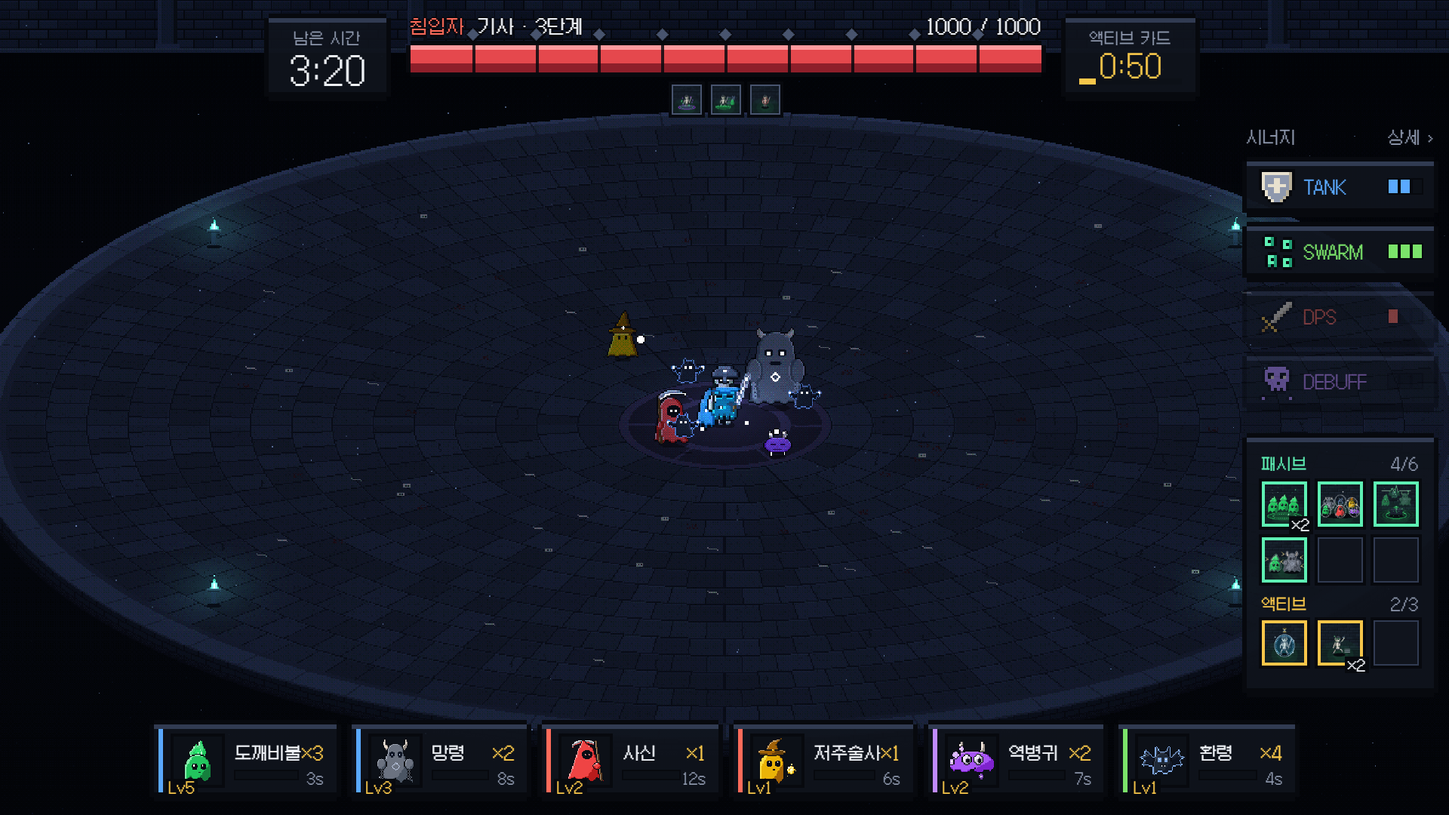
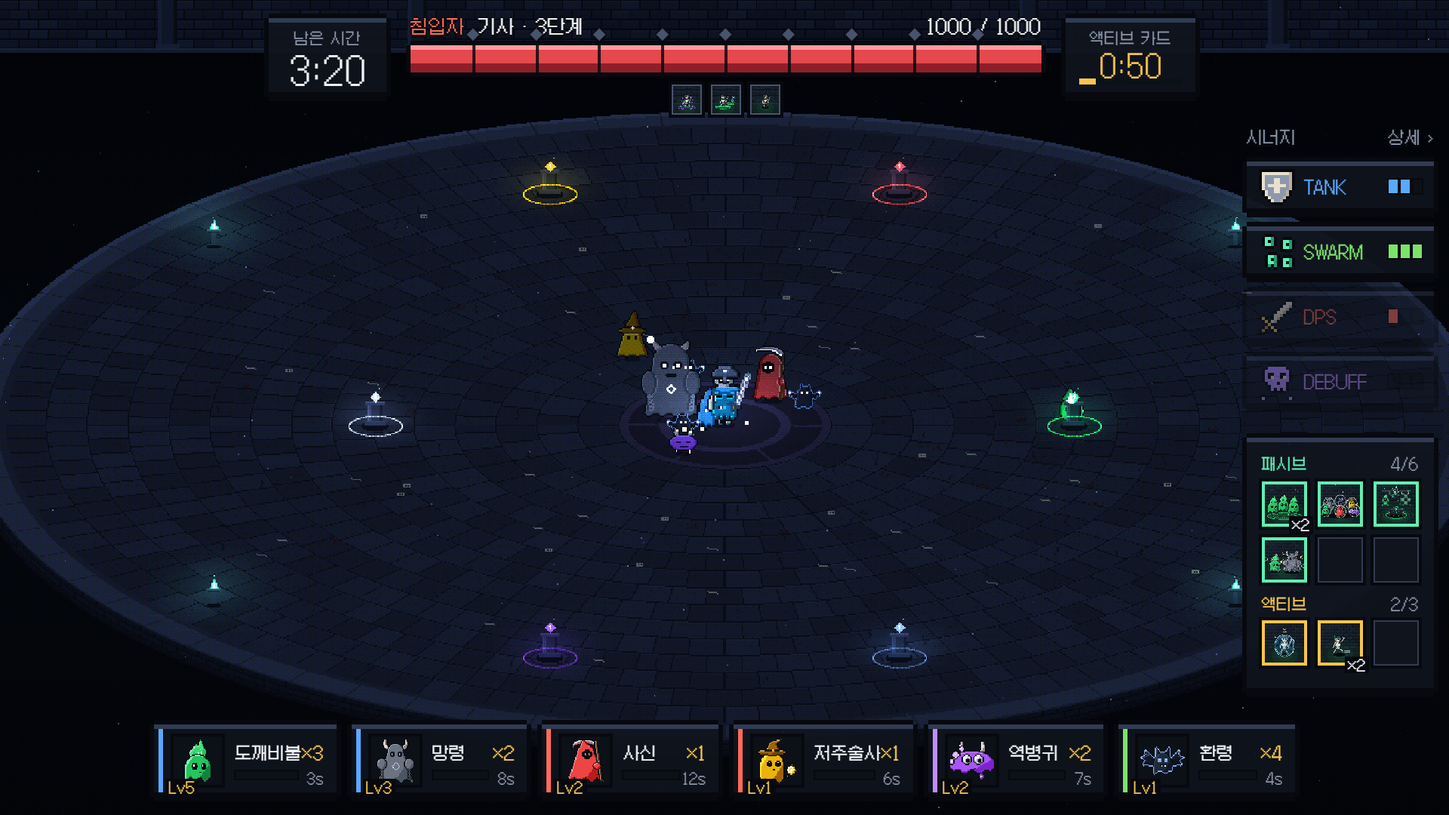
# [docs] - 배틀 광각판 시안에 투기장 안 스포너 제단 6개 복원
- 제단 6개(돌 제단 + 종족 발광색 결정·링·조명)를 투기장 안 새 스포너 위치에 배치, 캐릭터와 앞뒤로 정렬되는 별도 레이어
- 도깨비불이 오른쪽 제단에서 걸어 나와 영웅에게 붙고, 다른 공격자도 각자 제단 쪽에서 붙도록 연출 수정
- 추출 목록·저장 허용 목록에 제단 스프라이트 5장 추가(총 31장 + 시트 명세), 실제 화면 크기 시안 이미지 갱신

diff --git a/.mockups/scene-2d-atmosphere.html b/.mockups/scene-2d-atmosphere.html
@@ -203,7 +203,7 @@ body.only-battle .stage.showframe .scr{outline:0}
 </section>
 
 <section class="sc" id="s-battle-wide">
-  <div class="hd"><h2>3′. 배틀 광각판 — 현행 시야 그대로 (재확인 필요)</h2><code>buildBattleWide · Battle_Backdrop 1228×704 · 기획서 scene-2d-conversion §3.1.1</code></div>
+  <div class="hd"><h2>3′. 배틀 광각판 — 현행 시야 그대로 (재확인 필요)</h2><code>buildBattleWide · Battle_Backdrop 1228×704 + 제단 6 · 기획서 scene-2d-conversion §3.1.1 · §3.2 · §3.5</code></div>
   <div class="wide-scroll"><div class="stage wide showhud showframe" id="st-battle-wide"><canvas></canvas>
     <div class="scr"><div class="bhud-wrap"></div></div>
   </div></div>
@@ -213,7 +213,8 @@ body.only-battle .stage.showframe .scr{outline:0}
       <li>게임의 <b>지금 배틀 시야(카메라 size 7)를 그대로 둔 채</b> 그 화면을 채우도록 배경을 다시 그린 판입니다. 위 3번 시안(640×360)은 화면을 좁혀 본 구도였고, 실제 게임 화면은 <b>1194.67×672 도트</b>라 배경을 <b>1228×704</b>(흔들림 여백 포함)로 새로 그렸습니다. 캐릭터 도트 크기는 두 판이 같습니다.</li>
       <li>점선 사각형이 실제 화면 경계입니다. 바깥 띠(좌우 16.67·위아래 16 도트)는 카메라가 흔들릴 때만 드러나는 여백입니다.</li>
       <li>팔레트·그리기 함수·시드(41)는 3번과 같고, 크기·투기장 반경·석판 동심원 수(8 → 15)·벽 기둥 위치·균열/핏자국/뼈 개수만 넓이에 맞춰 늘렸습니다. 투기장은 화면 좌우 밖까지 이어집니다.</li>
-      <li><b>스포너 제단은 없습니다.</b> 스포너는 지금 게임처럼 화면 밖(반지름 20)에 있어서, 몬스터가 화면 가장자리에서 걸어 들어옵니다(여기서는 도깨비불이 오른쪽 0° 스포너에서 들어옴). 스포너 정보는 아래 HUD 스포너 줄이 맡습니다.</li>
+      <li><b>스포너 제단 6개를 투기장 안에 복원했습니다</b>(개정 2 — 스포너 반지름 20 → 6.0u, 각도는 지금 그대로). 위치는 도깨비불 (902,366) · 사신 (758,175) · 저주술사 (470,175) · 망령 (326,366) · 역병귀 (470,557) · 환령 (758,557) 이고, 6개 모두 HUD 밖에 있습니다. 제단은 배경에 굽지 않은 별도 스프라이트라 캐릭터와 앞뒤로 정렬되고, 결정·링 색은 종족 발광색(= HUD 스포너 칸 게이지 색)입니다.</li>
+      <li>몬스터는 자기 제단에서 걸어 나옵니다. 여기서는 도깨비불이 오른쪽(0°) 제단에서 나와 영웅에게 붙고, 다른 공격자도 각자 제단이 있는 쪽에서 붙어 싸웁니다.</li>
       <li>화로 4개는 HUD 에 가리지 않는 투기장 네 귀퉁이(193,218)·(1035,218)·(193,514)·(1035,514)에 둡니다. 영웅은 투기장 중심 (614,366)에 서 있습니다.</li>
       <li>화면이 넓어진 만큼 조명이 닿지 않는 어두운 가장자리가 3번보다 많습니다(의도). 너무 어두우면 앰비언트만 조정합니다.</li>
       <li><b>이 구도를 승인(G1a)해 주셔야</b> 아래 추출 버튼으로 에셋을 저장합니다.</li>
@@ -689,6 +690,16 @@ const ARENA={x:320,y:198,rx:336,ry:148};
 const ALTAR={};[['Wisp',240],['Reaper',180],['Hex',120],['Wraith',60],['Plague',0],['Phantom',300]].forEach(([sp,deg])=>{const a=deg*Math.PI/180;ALTAR[sp]={x:Math.round(320+204*Math.cos(a)),y:Math.round(198-96*Math.sin(a))};});
 const BRAZ=[150,30,210,330].map(d=>{const a=d*Math.PI/180;return{x:Math.round(320+300*Math.cos(a)),y:Math.round(198-132*Math.sin(a))};});
 const HERO={x:320,y:204};
+//# 제단 부품 — 앵커 (x,y) = 제단 발밑 도트. 시안 3번 디자인 그대로, 추출 스프라이트(Altar2D_*)와 광각판 레이어가 같은 함수를 쓴다.
+const ALTAR_PARTS={
+  base:(g,x,y)=>{g.ell('#0d1019',x,y+1,11,4);g.R('#2e3850',x-9,y-3,18,4);g.R('#3a4358',x-9,y-3,18,1);
+    g.R('#262d3c',x-6,y-16,12,13);g.R('#3a4358',x-6,y-16,3,13);g.R('#4d5872',x-6,y-16,1,13);g.R('#171d2a',x+4,y-16,2,13);
+    g.R('#3a4358',x-8,y-19,16,3);g.R('#56627e',x-8,y-19,16,1);},
+  ringDim:(g,x,y,c)=>{g.ring(shade(c,.35),x,y+1,22,8);g.ring(shade(c,.25),x,y+1,16,6);},
+  ring:(g,x,y,c)=>g.ring(c,x,y+1,22,8),
+  crystal:(g,x,cy,c)=>{for(let r=0;r<9;r++){const w=r<4?r:8-r;g.R(c,x-w,cy+r,w*2+1,1);}},
+  core:(g,x,cy)=>{g.R('#ffffff',x,cy+2,1,4);g.P('#ffffff',x-1,cy+3);},
+};
 //# 배틀 배경 파라미터 — 승인 시안(640×360)과 광각판(1228×704, 기획서 scene-2d-conversion §3.1.1). 팔레트·함수·시드는 공용.
 const BATTLE_SIAN={w:640,h:360,noise:70,wallH:40,pillars:[70,180,450,560],arena:ARENA,rings:8,cracks:22,blood:9,bones:12,braz:BRAZ,altars:true};
 const BATTLE_WIDE={w:1228,h:704,noise:263,wallH:56,pillars:[147,353,857,1062],arena:{x:614,y:366,rx:624,ry:258},rings:15,cracks:83,blood:34,bones:45,
@@ -731,11 +742,8 @@ function buildBattle(b,rng,P){
     for(let i=0;i<P.blood;i++){const[x,y]=inArena(.25+rng()*.6);for(let k=0;k<16;k++)g.P(rng()<.5?'#3a1a22':'#2e161c',x+Math.floor(rng()*9)-4,y+Math.floor(rng()*4)-2);}
     for(let i=0;i<P.bones;i++){const[x,y]=inArena(.3+rng()*.6);
       if(rng()<.4){g.ell('#b9b09a',x,y,3,2);g.P('#1a1d24',x-1,y);g.P('#1a1d24',x+1,y);}else{g.R('#b9b09a',x-3,y,7,1);g.P('#b9b09a',x-4,y-1);g.P('#b9b09a',x+4,y+1);}}
-    //# 제단 (광각판은 스포너가 화면 밖이라 없음 — §3.2)
-    if(P.altars)for(const sp in ALTAR){const{x,y}=ALTAR[sp];g.ring(shade(GLOW[sp],.35),x,y+1,22,8);g.ring(shade(GLOW[sp],.25),x,y+1,16,6);
-      g.ell('#0d1019',x,y+1,11,4);g.R('#2e3850',x-9,y-3,18,4);g.R('#3a4358',x-9,y-3,18,1);
-      g.R('#262d3c',x-6,y-16,12,13);g.R('#3a4358',x-6,y-16,3,13);g.R('#4d5872',x-6,y-16,1,13);g.R('#171d2a',x+4,y-16,2,13);
-      g.R('#3a4358',x-8,y-19,16,3);g.R('#56627e',x-8,y-19,16,1);}
+    //# 제단 (광각판은 배경에 굽지 않고 별도 스프라이트 레이어 — 개정 2 §3.2)
+    if(P.altars)for(const sp in ALTAR){const{x,y}=ALTAR[sp];ALTAR_PARTS.ringDim(g,x,y,GLOW[sp]);ALTAR_PARTS.base(g,x,y);}
     //# 화로
     for(const{x,y}of P.braz){g.ell('#0d1019',x,y+1,6,2);g.R('#2e3850',x-2,y-10,4,10);g.R('#3a4358',x-6,y-13,12,3);g.R('#56627e',x-6,y-13,12,1);g.R('#171d2a',x-5,y-11,10,1);}
 }
@@ -813,8 +821,11 @@ const BScene={
   },
   //# 캐릭터 발광 + 저주 구슬 + 불똥 (가산 상태에서 호출)
   _actorsGlow(ctx,S,t){
-    const g=mk(ctx);
     this._draws(ctx,S,t,true).forEach(o=>o.d());
+    this._orbFx(ctx,S,t);
+  },
+  _orbFx(ctx,S,t){
+    const g=mk(ctx);
     for(const o of S.orbs){const k=(t-o.t0)/o.dur,x=o.x0+(HERO.x-o.x0)*k,y=o.y0+(HERO.y-20-o.y0)*k-Math.sin(k*Math.PI)*10;
       for(let i=1;i<5;i++){const kk=Math.max(0,k-i*.05);ctx.globalAlpha=.6-i*.12;g.P('#e6af08',o.x0+(HERO.x-o.x0)*kk,o.y0+(HERO.y-20-o.y0)*kk-Math.sin(kk*Math.PI)*10);}
       ctx.globalAlpha=1;g.R('#e6af08',x-1,y-1,3,3);g.P('#fff3c4',x,y);}
@@ -860,29 +871,54 @@ const BScene={
 //# ============ 3′. 배틀 광각판 (1228×704 = 현행 카메라 size 7 화면 1194.67×672 + 흔들림 여백) ============
 //# 전투 연출은 3번 시뮬을 그대로 쓰고, 영웅을 BattleZone 중심 도트 (614,366) 로 옮긴다(오프셋 WOX·WOY). 캐릭터 도트 크기는 동일.
 const WOX=614-HERO.x,WOY=366-HERO.y;
+//# 개정 2 — 스포너 반지름 6.0u, 각도 현행(Wisp 0°…Phantom 300°). 앵커 = 기획서 §3.5.2 도트(반올림). i = 스포너 인덱스(위상 φ = i·60°)
+const WIDE_ALTARS=[['Wisp',902,366.38],['Reaper',758,175.32],['Hex',470,175.32],['Wraith',326,366.38],['Plague',470,557.44],['Phantom',758,557.44]]
+  .map(([sp,x,y],i)=>({sp,i,x:Math.round(x),y:Math.round(y),ph:i*1.0472}));
+const WIDE_ALTAR={};WIDE_ALTARS.forEach(a=>{WIDE_ALTAR[a.sp]=a;});
+//# 제단 결정 흔들림(도트, 화면 아래 +) — §3.2 / §7.4 CrystalBobDots
+const crystalBob=(t,ph)=>Math.floor(Math.sin(2.4*t+ph)*1.5+.5);
 const BWide=Object.assign(Object.create(BScene),{
   w:1228,h:704,scale:1,
-  //# 도깨비불 = 0° 스포너(화면 오른쪽 밖 dx 1574)에서 걸어 들어옴. 좌표는 오프셋 전 시안 좌표계
-  wispSpawn:{x:1244-WOX,y:366-WOY},wispSpeed:90,
+  //# 도깨비불 = Wisp 제단(0°)에서 나와 영웅 오른쪽으로 걸어감(이동 1.0u/s = 48도트/s). 좌표는 오프셋 전 시안 좌표계
+  wispSpawn:{x:WIDE_ALTAR.Wisp.x-WOX,y:WIDE_ALTAR.Wisp.y-WOY},wispSpeed:48,
   build(b,rng){buildBattleWide(b,rng);},
   init(){
     const S=BScene.init.call(this);
-    S.wisps.forEach(w=>{w.x=this.wispSpawn.x;w.y=this.wispSpawn.y;});
+    S.wisps.forEach((w,i)=>{w.x=this.wispSpawn.x;w.y=this.wispSpawn.y;w.tx=344+(i%2)*10;w.ty=206+i*9;});
+    //# 근접 공격자는 각자 제단이 있는 쪽에서 영웅에게 붙는다(Reaper 위-오른쪽 · Hex 위-왼쪽 원거리 · Wraith 왼쪽 · Plague 아래-왼쪽)
+    const POS={Reaper:[356,184,true],Hex:[244,150,false],Wraith:[276,200,false],Plague:[286,228,false]};
+    S.attackers.forEach(a=>{const p=POS[a.sp];if(p){a.x=p[0];a.y=p[1];a.flip=p[2];}});
     S.ember=Array.from({length:188},()=>({x:Math.random()*1228,y:Math.random()*704,v:3+Math.random()*6,p:Math.random()*6}));
     return S;
   },
-  lit(ctx,S,t){ctx.save();ctx.translate(WOX,WOY);BScene.lit.call(this,ctx,S,t);ctx.restore();},
+  //# 제단(별도 스프라이트 레이어, 배경에 굽지 않음)과 캐릭터를 앵커 y 로 함께 깊이 정렬
+  _draws(ctx,S,t,e){
+    const L=BScene._draws.call(this,ctx,S,t,e).map(o=>({y:o.y+WOY,d:()=>{ctx.save();ctx.translate(WOX,WOY);o.d();ctx.restore();}}));
+    for(const A of WIDE_ALTARS)L.push({y:A.y,d:()=>this._altar(ctx,A,t,e)});
+    return L.sort((p,q)=>p.y-q.y);
+  },
+  //# e=false: RingDim(order −1) + Base — 조명 받음 · e=true: 발광 링(알파 맥동) + 결정 + 심지 + 반짝 — 가산
+  _altar(ctx,A,t,e){
+    const g=mk(ctx),c=GLOW[A.sp];
+    if(e===false){ALTAR_PARTS.ringDim(g,A.x,A.y,c);ALTAR_PARTS.base(g,A.x,A.y);return;}
+    const a0=ctx.globalAlpha;ctx.globalAlpha=.45+.25*Math.sin(2*t+A.ph);ALTAR_PARTS.ring(g,A.x,A.y,c);ctx.globalAlpha=a0;
+    const cy=A.y-27+crystalBob(t,A.ph);
+    ALTAR_PARTS.crystal(g,A.x,cy,c);ALTAR_PARTS.core(g,A.x,cy);
+    if(Math.floor(t*3)%4===0)g.P(c,A.x+3,cy-3);
+  },
+  lit(ctx,S,t){this._draws(ctx,S,t,false).forEach(o=>o.d());},
   lights(S,t){
     const L=[{x:HERO.x+WOX,y:HERO.y-12+WOY,r:110,sq:.55,c:[.7,.82,1],i:.7}];
+    for(const A of WIDE_ALTARS)L.push({x:A.x,y:A.y-8,r:58,sq:.55,c:hex(GLOW[A.sp]).map(v=>v/255),i:1+Math.sin(2*t+A.ph)*.12});
     BATTLE_WIDE.braz.forEach((p,i)=>L.push({x:p.x,y:p.y-14,r:70,sq:.65,c:[.4,1,.7],i:.8+Math.sin(t*10+i*2)*.07}));
-    for(const o of S.orbs){const k=(t-o.t0)/o.dur;L.push({x:o.x0+(HERO.x-o.x0)*k+WOX,y:o.y0+(HERO.y-20-o.y0)*k+WOY,r:26,c:[1,.75,.2],i:.8});}
     return L;
   },
   emissive(ctx,S,t){
     const g=mk(ctx);ctx.globalCompositeOperation='lighter';
     //# 화로 불꽃 — 게임과 같이 위상 0 + 인스턴스별 시작 오프셋 0/0.5/1.0/1.5s(§3.1)
     BATTLE_WIDE.braz.forEach((p,i)=>flame(ctx,p.x,p.y-13,t+i*.5,8,SOULF,3,0));
-    ctx.save();ctx.translate(WOX,WOY);this._actorsGlow(ctx,S,t);ctx.restore();
+    this._draws(ctx,S,t,true).forEach(o=>o.d());
+    ctx.save();ctx.translate(WOX,WOY);this._orbFx(ctx,S,t);ctx.restore();
     for(const e of S.ember){ctx.globalAlpha=.25+.25*Math.sin(t*3+e.p);g.P('#9ec3ff',e.x,e.y);}
     ctx.globalAlpha=1;ctx.globalCompositeOperation='source-over';
   },
@@ -901,6 +937,12 @@ const EXPORTS=[
   //# 배틀
   {name:'Battle_Backdrop.png',folder:'Backdrop2D',w:1228,h:704,pivot:[.5,.5],raw:c=>withWH(1228,704,()=>buildBattleWide(c,mulberry32(41)))},
   flameSheet('Flame_Soul8_Sheet.png',8,SOULF,3),
+  //# 제단 5장(개정 2 §2.4) — 흰색 틴트용(RingDim 은 회색 0.35/0.25 계조), 런타임에 종족 발광색을 곱한다
+  {name:'Altar2D_Base.png',folder:'Backdrop2D',w:22,h:25,pivot:[.5,.24],org:[0,0],draw:c=>ALTAR_PARTS.base(mk(c),11,19)},
+  {name:'Altar2D_RingDim.png',folder:'Backdrop2D',w:45,h:17,pivot:[.4889,.5882],org:[0,0],draw:c=>ALTAR_PARTS.ringDim(mk(c),22,7,'#ffffff')},
+  {name:'Altar2D_Ring.png',folder:'Backdrop2D',w:45,h:17,pivot:[.4889,.5882],org:[0,0],draw:c=>ALTAR_PARTS.ring(mk(c),22,7,'#ffffff')},
+  {name:'Altar2D_Crystal.png',folder:'Backdrop2D',w:9,h:9,pivot:[.4444,1],org:[0,0],draw:c=>ALTAR_PARTS.crystal(mk(c),4,0,'#ffffff')},
+  {name:'Altar2D_CrystalCore.png',folder:'Backdrop2D',w:2,h:4,pivot:[.5,1],org:[0,0],draw:c=>ALTAR_PARTS.core(mk(c),1,-2)},
   //# 마을
   {name:'Village_Backdrop.png',folder:'Backdrop2D',w:480,h:270,pivot:[.5,.5],raw:c=>withWH(480,270,()=>VScene.build(c,mulberry32(VScene.seed)))},
   {name:'Village_CauldronGlow.png',folder:'Backdrop2D',w:19,h:5,pivot:[0,1],org:[118,155],draw:c=>{const g=mk(c);g.ell('#1f9e74',127,157,9,2);g.R('#5ef0b4',121,157,12,1);}},

diff --git a/.mockups/scene-2d-atmosphere.src.html b/.mockups/scene-2d-atmosphere.src.html
@@ -203,7 +203,7 @@ body.only-battle .stage.showframe .scr{outline:0}
 </section>
 
 <section class="sc" id="s-battle-wide">
-  <div class="hd"><h2>3′. 배틀 광각판 — 현행 시야 그대로 (재확인 필요)</h2><code>buildBattleWide · Battle_Backdrop 1228×704 · 기획서 scene-2d-conversion §3.1.1</code></div>
+  <div class="hd"><h2>3′. 배틀 광각판 — 현행 시야 그대로 (재확인 필요)</h2><code>buildBattleWide · Battle_Backdrop 1228×704 + 제단 6 · 기획서 scene-2d-conversion §3.1.1 · §3.2 · §3.5</code></div>
   <div class="wide-scroll"><div class="stage wide showhud showframe" id="st-battle-wide"><canvas></canvas>
     <div class="scr"><div class="bhud-wrap"></div></div>
   </div></div>
@@ -213,7 +213,8 @@ body.only-battle .stage.showframe .scr{outline:0}
       <li>게임의 <b>지금 배틀 시야(카메라 size 7)를 그대로 둔 채</b> 그 화면을 채우도록 배경을 다시 그린 판입니다. 위 3번 시안(640×360)은 화면을 좁혀 본 구도였고, 실제 게임 화면은 <b>1194.67×672 도트</b>라 배경을 <b>1228×704</b>(흔들림 여백 포함)로 새로 그렸습니다. 캐릭터 도트 크기는 두 판이 같습니다.</li>
       <li>점선 사각형이 실제 화면 경계입니다. 바깥 띠(좌우 16.67·위아래 16 도트)는 카메라가 흔들릴 때만 드러나는 여백입니다.</li>
       <li>팔레트·그리기 함수·시드(41)는 3번과 같고, 크기·투기장 반경·석판 동심원 수(8 → 15)·벽 기둥 위치·균열/핏자국/뼈 개수만 넓이에 맞춰 늘렸습니다. 투기장은 화면 좌우 밖까지 이어집니다.</li>
-      <li><b>스포너 제단은 없습니다.</b> 스포너는 지금 게임처럼 화면 밖(반지름 20)에 있어서, 몬스터가 화면 가장자리에서 걸어 들어옵니다(여기서는 도깨비불이 오른쪽 0° 스포너에서 들어옴). 스포너 정보는 아래 HUD 스포너 줄이 맡습니다.</li>
+      <li><b>스포너 제단 6개를 투기장 안에 복원했습니다</b>(개정 2 — 스포너 반지름 20 → 6.0u, 각도는 지금 그대로). 위치는 도깨비불 (902,366) · 사신 (758,175) · 저주술사 (470,175) · 망령 (326,366) · 역병귀 (470,557) · 환령 (758,557) 이고, 6개 모두 HUD 밖에 있습니다. 제단은 배경에 굽지 않은 별도 스프라이트라 캐릭터와 앞뒤로 정렬되고, 결정·링 색은 종족 발광색(= HUD 스포너 칸 게이지 색)입니다.</li>
+      <li>몬스터는 자기 제단에서 걸어 나옵니다. 여기서는 도깨비불이 오른쪽(0°) 제단에서 나와 영웅에게 붙고, 다른 공격자도 각자 제단이 있는 쪽에서 붙어 싸웁니다.</li>
       <li>화로 4개는 HUD 에 가리지 않는 투기장 네 귀퉁이(193,218)·(1035,218)·(193,514)·(1035,514)에 둡니다. 영웅은 투기장 중심 (614,366)에 서 있습니다.</li>
       <li>화면이 넓어진 만큼 조명이 닿지 않는 어두운 가장자리가 3번보다 많습니다(의도). 너무 어두우면 앰비언트만 조정합니다.</li>
       <li><b>이 구도를 승인(G1a)해 주셔야</b> 아래 추출 버튼으로 에셋을 저장합니다.</li>
@@ -689,6 +690,16 @@ const ARENA={x:320,y:198,rx:336,ry:148};
 const ALTAR={};[['Wisp',240],['Reaper',180],['Hex',120],['Wraith',60],['Plague',0],['Phantom',300]].forEach(([sp,deg])=>{const a=deg*Math.PI/180;ALTAR[sp]={x:Math.round(320+204*Math.cos(a)),y:Math.round(198-96*Math.sin(a))};});
 const BRAZ=[150,30,210,330].map(d=>{const a=d*Math.PI/180;return{x:Math.round(320+300*Math.cos(a)),y:Math.round(198-132*Math.sin(a))};});
 const HERO={x:320,y:204};
+//# 제단 부품 — 앵커 (x,y) = 제단 발밑 도트. 시안 3번 디자인 그대로, 추출 스프라이트(Altar2D_*)와 광각판 레이어가 같은 함수를 쓴다.
+const ALTAR_PARTS={
+  base:(g,x,y)=>{g.ell('#0d1019',x,y+1,11,4);g.R('#2e3850',x-9,y-3,18,4);g.R('#3a4358',x-9,y-3,18,1);
+    g.R('#262d3c',x-6,y-16,12,13);g.R('#3a4358',x-6,y-16,3,13);g.R('#4d5872',x-6,y-16,1,13);g.R('#171d2a',x+4,y-16,2,13);
+    g.R('#3a4358',x-8,y-19,16,3);g.R('#56627e',x-8,y-19,16,1);},
+  ringDim:(g,x,y,c)=>{g.ring(shade(c,.35),x,y+1,22,8);g.ring(shade(c,.25),x,y+1,16,6);},
+  ring:(g,x,y,c)=>g.ring(c,x,y+1,22,8),
+  crystal:(g,x,cy,c)=>{for(let r=0;r<9;r++){const w=r<4?r:8-r;g.R(c,x-w,cy+r,w*2+1,1);}},
+  core:(g,x,cy)=>{g.R('#ffffff',x,cy+2,1,4);g.P('#ffffff',x-1,cy+3);},
+};
 //# 배틀 배경 파라미터 — 승인 시안(640×360)과 광각판(1228×704, 기획서 scene-2d-conversion §3.1.1). 팔레트·함수·시드는 공용.
 const BATTLE_SIAN={w:640,h:360,noise:70,wallH:40,pillars:[70,180,450,560],arena:ARENA,rings:8,cracks:22,blood:9,bones:12,braz:BRAZ,altars:true};
 const BATTLE_WIDE={w:1228,h:704,noise:263,wallH:56,pillars:[147,353,857,1062],arena:{x:614,y:366,rx:624,ry:258},rings:15,cracks:83,blood:34,bones:45,
@@ -731,11 +742,8 @@ function buildBattle(b,rng,P){
     for(let i=0;i<P.blood;i++){const[x,y]=inArena(.25+rng()*.6);for(let k=0;k<16;k++)g.P(rng()<.5?'#3a1a22':'#2e161c',x+Math.floor(rng()*9)-4,y+Math.floor(rng()*4)-2);}
     for(let i=0;i<P.bones;i++){const[x,y]=inArena(.3+rng()*.6);
       if(rng()<.4){g.ell('#b9b09a',x,y,3,2);g.P('#1a1d24',x-1,y);g.P('#1a1d24',x+1,y);}else{g.R('#b9b09a',x-3,y,7,1);g.P('#b9b09a',x-4,y-1);g.P('#b9b09a',x+4,y+1);}}
-    //# 제단 (광각판은 스포너가 화면 밖이라 없음 — §3.2)
-    if(P.altars)for(const sp in ALTAR){const{x,y}=ALTAR[sp];g.ring(shade(GLOW[sp],.35),x,y+1,22,8);g.ring(shade(GLOW[sp],.25),x,y+1,16,6);
-      g.ell('#0d1019',x,y+1,11,4);g.R('#2e3850',x-9,y-3,18,4);g.R('#3a4358',x-9,y-3,18,1);
-      g.R('#262d3c',x-6,y-16,12,13);g.R('#3a4358',x-6,y-16,3,13);g.R('#4d5872',x-6,y-16,1,13);g.R('#171d2a',x+4,y-16,2,13);
-      g.R('#3a4358',x-8,y-19,16,3);g.R('#56627e',x-8,y-19,16,1);}
+    //# 제단 (광각판은 배경에 굽지 않고 별도 스프라이트 레이어 — 개정 2 §3.2)
+    if(P.altars)for(const sp in ALTAR){const{x,y}=ALTAR[sp];ALTAR_PARTS.ringDim(g,x,y,GLOW[sp]);ALTAR_PARTS.base(g,x,y);}
     //# 화로
     for(const{x,y}of P.braz){g.ell('#0d1019',x,y+1,6,2);g.R('#2e3850',x-2,y-10,4,10);g.R('#3a4358',x-6,y-13,12,3);g.R('#56627e',x-6,y-13,12,1);g.R('#171d2a',x-5,y-11,10,1);}
 }
@@ -813,8 +821,11 @@ const BScene={
   },
   //# 캐릭터 발광 + 저주 구슬 + 불똥 (가산 상태에서 호출)
   _actorsGlow(ctx,S,t){
-    const g=mk(ctx);
     this._draws(ctx,S,t,true).forEach(o=>o.d());
+    this._orbFx(ctx,S,t);
+  },
+  _orbFx(ctx,S,t){
+    const g=mk(ctx);
     for(const o of S.orbs){const k=(t-o.t0)/o.dur,x=o.x0+(HERO.x-o.x0)*k,y=o.y0+(HERO.y-20-o.y0)*k-Math.sin(k*Math.PI)*10;
       for(let i=1;i<5;i++){const kk=Math.max(0,k-i*.05);ctx.globalAlpha=.6-i*.12;g.P('#e6af08',o.x0+(HERO.x-o.x0)*kk,o.y0+(HERO.y-20-o.y0)*kk-Math.sin(kk*Math.PI)*10);}
       ctx.globalAlpha=1;g.R('#e6af08',x-1,y-1,3,3);g.P('#fff3c4',x,y);}
@@ -860,29 +871,54 @@ const BScene={
 //# ============ 3′. 배틀 광각판 (1228×704 = 현행 카메라 size 7 화면 1194.67×672 + 흔들림 여백) ============
 //# 전투 연출은 3번 시뮬을 그대로 쓰고, 영웅을 BattleZone 중심 도트 (614,366) 로 옮긴다(오프셋 WOX·WOY). 캐릭터 도트 크기는 동일.
 const WOX=614-HERO.x,WOY=366-HERO.y;
+//# 개정 2 — 스포너 반지름 6.0u, 각도 현행(Wisp 0°…Phantom 300°). 앵커 = 기획서 §3.5.2 도트(반올림). i = 스포너 인덱스(위상 φ = i·60°)
+const WIDE_ALTARS=[['Wisp',902,366.38],['Reaper',758,175.32],['Hex',470,175.32],['Wraith',326,366.38],['Plague',470,557.44],['Phantom',758,557.44]]
+  .map(([sp,x,y],i)=>({sp,i,x:Math.round(x),y:Math.round(y),ph:i*1.0472}));
+const WIDE_ALTAR={};WIDE_ALTARS.forEach(a=>{WIDE_ALTAR[a.sp]=a;});
+//# 제단 결정 흔들림(도트, 화면 아래 +) — §3.2 / §7.4 CrystalBobDots
+const crystalBob=(t,ph)=>Math.floor(Math.sin(2.4*t+ph)*1.5+.5);
 const BWide=Object.assign(Object.create(BScene),{
   w:1228,h:704,scale:1,
-  //# 도깨비불 = 0° 스포너(화면 오른쪽 밖 dx 1574)에서 걸어 들어옴. 좌표는 오프셋 전 시안 좌표계
-  wispSpawn:{x:1244-WOX,y:366-WOY},wispSpeed:90,
+  //# 도깨비불 = Wisp 제단(0°)에서 나와 영웅 오른쪽으로 걸어감(이동 1.0u/s = 48도트/s). 좌표는 오프셋 전 시안 좌표계
+  wispSpawn:{x:WIDE_ALTAR.Wisp.x-WOX,y:WIDE_ALTAR.Wisp.y-WOY},wispSpeed:48,
   build(b,rng){buildBattleWide(b,rng);},
   init(){
     const S=BScene.init.call(this);
-    S.wisps.forEach(w=>{w.x=this.wispSpawn.x;w.y=this.wispSpawn.y;});
+    S.wisps.forEach((w,i)=>{w.x=this.wispSpawn.x;w.y=this.wispSpawn.y;w.tx=344+(i%2)*10;w.ty=206+i*9;});
+    //# 근접 공격자는 각자 제단이 있는 쪽에서 영웅에게 붙는다(Reaper 위-오른쪽 · Hex 위-왼쪽 원거리 · Wraith 왼쪽 · Plague 아래-왼쪽)
+    const POS={Reaper:[356,184,true],Hex:[244,150,false],Wraith:[276,200,false],Plague:[286,228,false]};
+    S.attackers.forEach(a=>{const p=POS[a.sp];if(p){a.x=p[0];a.y=p[1];a.flip=p[2];}});
     S.ember=Array.from({length:188},()=>({x:Math.random()*1228,y:Math.random()*704,v:3+Math.random()*6,p:Math.random()*6}));
     return S;
   },
-  lit(ctx,S,t){ctx.save();ctx.translate(WOX,WOY);BScene.lit.call(this,ctx,S,t);ctx.restore();},
+  //# 제단(별도 스프라이트 레이어, 배경에 굽지 않음)과 캐릭터를 앵커 y 로 함께 깊이 정렬
+  _draws(ctx,S,t,e){
+    const L=BScene._draws.call(this,ctx,S,t,e).map(o=>({y:o.y+WOY,d:()=>{ctx.save();ctx.translate(WOX,WOY);o.d();ctx.restore();}}));
+    for(const A of WIDE_ALTARS)L.push({y:A.y,d:()=>this._altar(ctx,A,t,e)});
+    return L.sort((p,q)=>p.y-q.y);
+  },
+  //# e=false: RingDim(order −1) + Base — 조명 받음 · e=true: 발광 링(알파 맥동) + 결정 + 심지 + 반짝 — 가산
+  _altar(ctx,A,t,e){
+    const g=mk(ctx),c=GLOW[A.sp];
+    if(e===false){ALTAR_PARTS.ringDim(g,A.x,A.y,c);ALTAR_PARTS.base(g,A.x,A.y);return;}
+    const a0=ctx.globalAlpha;ctx.globalAlpha=.45+.25*Math.sin(2*t+A.ph);ALTAR_PARTS.ring(g,A.x,A.y,c);ctx.globalAlpha=a0;
+    const cy=A.y-27+crystalBob(t,A.ph);
+    ALTAR_PARTS.crystal(g,A.x,cy,c);ALTAR_PARTS.core(g,A.x,cy);
+    if(Math.floor(t*3)%4===0)g.P(c,A.x+3,cy-3);
+  },
+  lit(ctx,S,t){this._draws(ctx,S,t,false).forEach(o=>o.d());},
   lights(S,t){
     const L=[{x:HERO.x+WOX,y:HERO.y-12+WOY,r:110,sq:.55,c:[.7,.82,1],i:.7}];
+    for(const A of WIDE_ALTARS)L.push({x:A.x,y:A.y-8,r:58,sq:.55,c:hex(GLOW[A.sp]).map(v=>v/255),i:1+Math.sin(2*t+A.ph)*.12});
     BATTLE_WIDE.braz.forEach((p,i)=>L.push({x:p.x,y:p.y-14,r:70,sq:.65,c:[.4,1,.7],i:.8+Math.sin(t*10+i*2)*.07}));
-    for(const o of S.orbs){const k=(t-o.t0)/o.dur;L.push({x:o.x0+(HERO.x-o.x0)*k+WOX,y:o.y0+(HERO.y-20-o.y0)*k+WOY,r:26,c:[1,.75,.2],i:.8});}
     return L;
   },
   emissive(ctx,S,t){
     const g=mk(ctx);ctx.globalCompositeOperation='lighter';
     //# 화로 불꽃 — 게임과 같이 위상 0 + 인스턴스별 시작 오프셋 0/0.5/1.0/1.5s(§3.1)
     BATTLE_WIDE.braz.forEach((p,i)=>flame(ctx,p.x,p.y-13,t+i*.5,8,SOULF,3,0));
-    ctx.save();ctx.translate(WOX,WOY);this._actorsGlow(ctx,S,t);ctx.restore();
+    this._draws(ctx,S,t,true).forEach(o=>o.d());
+    ctx.save();ctx.translate(WOX,WOY);this._orbFx(ctx,S,t);ctx.restore();
     for(const e of S.ember){ctx.globalAlpha=.25+.25*Math.sin(t*3+e.p);g.P('#9ec3ff',e.x,e.y);}
     ctx.globalAlpha=1;ctx.globalCompositeOperation='source-over';
   },
@@ -901,6 +937,12 @@ const EXPORTS=[
   //# 배틀
   {name:'Battle_Backdrop.png',folder:'Backdrop2D',w:1228,h:704,pivot:[.5,.5],raw:c=>withWH(1228,704,()=>buildBattleWide(c,mulberry32(41)))},
   flameSheet('Flame_Soul8_Sheet.png',8,SOULF,3),
+  //# 제단 5장(개정 2 §2.4) — 흰색 틴트용(RingDim 은 회색 0.35/0.25 계조), 런타임에 종족 발광색을 곱한다
+  {name:'Altar2D_Base.png',folder:'Backdrop2D',w:22,h:25,pivot:[.5,.24],org:[0,0],draw:c=>ALTAR_PARTS.base(mk(c),11,19)},
+  {name:'Altar2D_RingDim.png',folder:'Backdrop2D',w:45,h:17,pivot:[.4889,.5882],org:[0,0],draw:c=>ALTAR_PARTS.ringDim(mk(c),22,7,'#ffffff')},
+  {name:'Altar2D_Ring.png',folder:'Backdrop2D',w:45,h:17,pivot:[.4889,.5882],org:[0,0],draw:c=>ALTAR_PARTS.ring(mk(c),22,7,'#ffffff')},
+  {name:'Altar2D_Crystal.png',folder:'Backdrop2D',w:9,h:9,pivot:[.4444,1],org:[0,0],draw:c=>ALTAR_PARTS.crystal(mk(c),4,0,'#ffffff')},
+  {name:'Altar2D_CrystalCore.png',folder:'Backdrop2D',w:2,h:4,pivot:[.5,1],org:[0,0],draw:c=>ALTAR_PARTS.core(mk(c),1,-2)},
   //# 마을
   {name:'Village_Backdrop.png',folder:'Backdrop2D',w:480,h:270,pivot:[.5,.5],raw:c=>withWH(480,270,()=>VScene.build(c,mulberry32(VScene.seed)))},
   {name:'Village_CauldronGlow.png',folder:'Backdrop2D',w:19,h:5,pivot:[0,1],org:[118,155],draw:c=>{const g=mk(c);g.ell('#1f9e74',127,157,9,2);g.R('#5ef0b4',121,157,12,1);}},

diff --git a/.mockups/server.js b/.mockups/server.js
@@ -27,6 +27,7 @@ const FX_NAMES = new Set([
 const BACKDROP_DIR = path.join(ROOT, '..', 'Assets', '_Lair', 'Art', 'Sprites', 'Backdrop2D');
 const BACKDROP_NAMES = new Set([
   'Battle_Backdrop.png', 'Flame_Soul8_Sheet.png',
+  'Altar2D_Base.png', 'Altar2D_RingDim.png', 'Altar2D_Ring.png', 'Altar2D_Crystal.png', 'Altar2D_CrystalCore.png',
   'Village_Backdrop.png', 'Village_CauldronGlow.png', 'Village_CauldronBubbles_Sheet.png', 'Village_CrownSparkle.png',
   'Village_ProjectorRings.png', 'Village_HoloScan_Sheet.png',
   'Flame_Warm7_Sheet.png', 'Flame_Warm3_Sheet.png', 'Flame_Warm3w1_Sheet.png', 'Shadow_R6.png', 'Shadow_R11.png',
